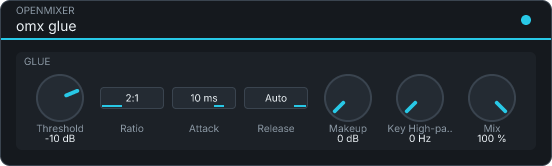
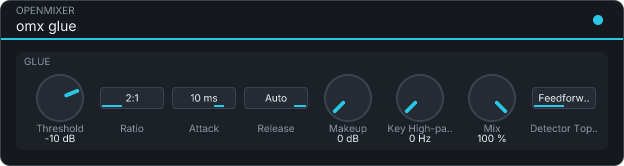
omx-glue: Detector Topology, appended at id 7, default Feedforward
The glue kernel's eighth control (omx-dsp data/kernels/glue.json
GLUE_DETECTOR_TOPOLOGIES) reaches both faces: CLAP id 7, LV2 port index 11,
symbol detectorTopology, Feedforward (0) / Feedback (1). Ids 0..6 and their
symbols do not move; the host's bypass follows at id 8 and the LV2 enabled and
latency ports at 12 and 13, as the append-only rule places them. Default
Feedforward: a state saved before (read by symbol) and every earlier preset come
up as the glue they were.

Needs omx-dsp feat/ssl-feedback-mode (the face's appended resolve argument).
make -C plugins/omx-glue test against it (Fedora 44, the channel): clap-params
9/9 as declared, Detector Topology live (moves the output), state round trip
with 9 values, the kernel-identity oracle green on CLAP and LV2 at every rate,
presets listed and loaded through CLAP and lilv. The one red,
modgui-gen --check on build/omx-glue.lv2/modgui.ttl, is the channel's
omx-panel 0.9.1 and reads the same on the untouched omx-comp.

diff --git a/plugins/omx-glue/test/glue-oracle.c b/plugins/omx-glue/test/glue-oracle.c
@@ -55,67 +55,73 @@ typedef struct {
 } Block;
 
 static const Block PLAN[] = {
-    { 64, 0.0f, 0, {-10.0f, 2.0f, 4.0f, 2.0f, 2.4f, 175.0f, 100.0f}, 0 },
-    { 1, 0.0f, 0, {-30.0f, 0.0f, 4.0f, 4.0f, 14.4f, 0.0f, 25.0f}, 0 },
-    { 333, 0.0f, 0, {0.0f, 2.0f, 3.0f, 0.0f, 8.4f, 0.0f, 100.0f}, 0 },
-    { 512, 0.0f, 0, {-40.0f, 0.0f, 5.0f, 2.0f, 0.0f, 125.0f, 0.0f}, 0 },
-    { 17, 0.0f, 0, {-10.0f, 1.0f, 1.0f, 1.0f, 0.0f, 500.0f, 75.0f}, 1 },
-    { 480, 0.0f, 0, {-10.0f, 2.0f, 3.0f, 4.0f, 6.0f, 0.0f, 100.0f}, 1 },
-    { 129, 0.0f, 0, {-20.0f, 0.0f, 2.0f, 4.0f, 24.0f, 375.0f, 50.0f}, 0 },
-    { 1024, 0.0f, 0, {-4.0f, 1.0f, 4.0f, 1.0f, 0.0f, 0.0f, 90.0f}, 0 },
-    { 7, 0.0f, 0, {-36.0f, 1.0f, 4.0f, 4.0f, 18.0f, 250.0f, 10.0f}, 0 },
-    { 2500, 0.0f, 0, {-16.0f, 0.0f, 1.0f, 0.0f, 0.0f, 450.0f, 60.0f}, 0 },
-    { 600, 0.0f, 0, {-26.0f, 0.0f, 5.0f, 3.0f, 12.0f, 50.0f, 35.0f}, 0 },
-    { 3000, 0.0f, 0, {-10.0f, 1.0f, 0.0f, 4.0f, 21.6f, 300.0f, 100.0f}, 0 },
-    { 0, 10.0f, 1, {-10.0f, 0.0f, 4.0f, 4.0f, 0.0f, 0.0f, 100.0f}, 0 },
-    { 0, 100.0f, 2, {-10.0f, 0.0f, 4.0f, 4.0f, 0.0f, 0.0f, 100.0f}, 0 },
-    { 0, 10.0f, 1, {-10.0f, 0.0f, 4.0f, 4.0f, 0.0f, 0.0f, 100.0f}, 0 },
-    { 0, 100.0f, 2, {-10.0f, 0.0f, 4.0f, 4.0f, 0.0f, 0.0f, 100.0f}, 0 },
-    { 0, 100.0f, 2, {-30.0f, 0.0f, 5.0f, 0.0f, 18.0f, 375.0f, 75.0f}, 0 },
-    { 0, 10.0f, 1, {-10.0f, 1.0f, 4.0f, 4.0f, 0.0f, 0.0f, 100.0f}, 0 },
-    { 0, 100.0f, 2, {-10.0f, 1.0f, 4.0f, 4.0f, 0.0f, 0.0f, 100.0f}, 0 },
-    { 0, 100.0f, 2, {-30.0f, 1.0f, 5.0f, 0.0f, 18.0f, 375.0f, 75.0f}, 0 },
-    { 0, 10.0f, 1, {-10.0f, 2.0f, 4.0f, 4.0f, 0.0f, 0.0f, 100.0f}, 0 },
-    { 0, 100.0f, 2, {-10.0f, 2.0f, 4.0f, 4.0f, 0.0f, 0.0f, 100.0f}, 0 },
-    { 0, 100.0f, 2, {-30.0f, 2.0f, 5.0f, 0.0f, 18.0f, 375.0f, 75.0f}, 0 },
-    { 0, 10.0f, 1, {-10.0f, 0.0f, 0.0f, 4.0f, 0.0f, 0.0f, 100.0f}, 0 },
-    { 0, 100.0f, 2, {-10.0f, 0.0f, 0.0f, 4.0f, 0.0f, 0.0f, 100.0f}, 0 },
-    { 0, 100.0f, 2, {-30.0f, 1.0f, 0.0f, 0.0f, 18.0f, 375.0f, 75.0f}, 0 },
-    { 0, 10.0f, 1, {-10.0f, 0.0f, 1.0f, 4.0f, 0.0f, 0.0f, 100.0f}, 0 },
-    { 0, 100.0f, 2, {-10.0f, 0.0f, 1.0f, 4.0f, 0.0f, 0.0f, 100.0f}, 0 },
-    { 0, 100.0f, 2, {-30.0f, 1.0f, 1.0f, 0.0f, 18.0f, 375.0f, 75.0f}, 0 },
-    { 0, 10.0f, 1, {-10.0f, 0.0f, 2.0f, 4.0f, 0.0f, 0.0f, 100.0f}, 0 },
-    { 0, 100.0f, 2, {-10.0f, 0.0f, 2.0f, 4.0f, 0.0f, 0.0f, 100.0f}, 0 },
-    { 0, 100.0f, 2, {-30.0f, 1.0f, 2.0f, 0.0f, 18.0f, 375.0f, 75.0f}, 0 },
-    { 0, 10.0f, 1, {-10.0f, 0.0f, 3.0f, 4.0f, 0.0f, 0.0f, 100.0f}, 0 },
-    { 0, 100.0f, 2, {-10.0f, 0.0f, 3.0f, 4.0f, 0.0f, 0.0f, 100.0f}, 0 },
-    { 0, 100.0f, 2, {-30.0f, 1.0f, 3.0f, 0.0f, 18.0f, 375.0f, 75.0f}, 0 },
-    { 0, 10.0f, 1, {-10.0f, 0.0f, 4.0f, 4.0f, 0.0f, 0.0f, 100.0f}, 0 },
-    { 0, 100.0f, 2, {-10.0f, 0.0f, 4.0f, 4.0f, 0.0f, 0.0f, 100.0f}, 0 },
-    { 0, 100.0f, 2, {-30.0f, 1.0f, 4.0f, 0.0f, 18.0f, 375.0f, 75.0f}, 0 },
-    { 0, 10.0f, 1, {-10.0f, 0.0f, 5.0f, 4.0f, 0.0f, 0.0f, 100.0f}, 0 },
-    { 0, 100.0f, 2, {-10.0f, 0.0f, 5.0f, 4.0f, 0.0f, 0.0f, 100.0f}, 0 },
-    { 0, 100.0f, 2, {-30.0f, 1.0f, 5.0f, 0.0f, 18.0f, 375.0f, 75.0f}, 0 },
-    { 0, 10.0f, 1, {-10.0f, 0.0f, 4.0f, 0.0f, 0.0f, 0.0f, 100.0f}, 0 },
-    { 0, 100.0f, 2, {-10.0f, 0.0f, 4.0f, 0.0f, 0.0f, 0.0f, 100.0f}, 0 },
-    { 0, 100.0f, 2, {-30.0f, 1.0f, 5.0f, 0.0f, 18.0f, 375.0f, 75.0f}, 0 },
-    { 0, 10.0f, 1, {-10.0f, 0.0f, 4.0f, 1.0f, 0.0f, 0.0f, 100.0f}, 0 },
-    { 0, 100.0f, 2, {-10.0f, 0.0f, 4.0f, 1.0f, 0.0f, 0.0f, 100.0f}, 0 },
-    { 0, 100.0f, 2, {-30.0f, 1.0f, 5.0f, 1.0f, 18.0f, 375.0f, 75.0f}, 0 },
-    { 0, 10.0f, 1, {-10.0f, 0.0f, 4.0f, 2.0f, 0.0f, 0.0f, 100.0f}, 0 },
-    { 0, 100.0f, 2, {-10.0f, 0.0f, 4.0f, 2.0f, 0.0f, 0.0f, 100.0f}, 0 },
-    { 0, 100.0f, 2, {-30.0f, 1.0f, 5.0f, 2.0f, 18.0f, 375.0f, 75.0f}, 0 },
-    { 0, 10.0f, 1, {-10.0f, 0.0f, 4.0f, 3.0f, 0.0f, 0.0f, 100.0f}, 0 },
-    { 0, 100.0f, 2, {-10.0f, 0.0f, 4.0f, 3.0f, 0.0f, 0.0f, 100.0f}, 0 },
-    { 0, 100.0f, 2, {-30.0f, 1.0f, 5.0f, 3.0f, 18.0f, 375.0f, 75.0f}, 0 },
-    { 0, 10.0f, 1, {-10.0f, 0.0f, 4.0f, 4.0f, 0.0f, 0.0f, 100.0f}, 0 },
-    { 0, 100.0f, 2, {-10.0f, 0.0f, 4.0f, 4.0f, 0.0f, 0.0f, 100.0f}, 0 },
-    { 0, 100.0f, 2, {-30.0f, 1.0f, 5.0f, 4.0f, 18.0f, 375.0f, 75.0f}, 0 },
+    { 64, 0.0f, 0, {-10.0f, 2.0f, 4.0f, 2.0f, 2.4f, 175.0f, 100.0f, 1.0f}, 0 },
+    { 1, 0.0f, 0, {-30.0f, 0.0f, 4.0f, 4.0f, 14.4f, 0.0f, 25.0f, 0.0f}, 0 },
+    { 333, 0.0f, 0, {0.0f, 2.0f, 3.0f, 0.0f, 8.4f, 0.0f, 100.0f, 1.0f}, 0 },
+    { 512, 0.0f, 0, {-40.0f, 0.0f, 5.0f, 2.0f, 0.0f, 125.0f, 0.0f, 0.0f}, 0 },
+    { 17, 0.0f, 0, {-10.0f, 1.0f, 1.0f, 1.0f, 0.0f, 500.0f, 75.0f, 1.0f}, 1 },
+    { 480, 0.0f, 0, {-10.0f, 2.0f, 3.0f, 4.0f, 6.0f, 0.0f, 100.0f, 1.0f}, 1 },
+    { 129, 0.0f, 0, {-20.0f, 0.0f, 2.0f, 4.0f, 24.0f, 375.0f, 50.0f, 0.0f}, 0 },
+    { 1024, 0.0f, 0, {-4.0f, 1.0f, 4.0f, 1.0f, 0.0f, 0.0f, 90.0f, 1.0f}, 0 },
+    { 7, 0.0f, 0, {-36.0f, 1.0f, 4.0f, 4.0f, 18.0f, 250.0f, 10.0f, 0.0f}, 0 },
+    { 2500, 0.0f, 0, {-16.0f, 0.0f, 1.0f, 0.0f, 0.0f, 450.0f, 60.0f, 0.0f}, 0 },
+    { 600, 0.0f, 0, {-26.0f, 0.0f, 5.0f, 3.0f, 12.0f, 50.0f, 35.0f, 0.0f}, 0 },
+    { 3000, 0.0f, 0, {-10.0f, 1.0f, 0.0f, 4.0f, 21.6f, 300.0f, 100.0f, 0.0f}, 0 },
+    { 0, 10.0f, 1, {-10.0f, 0.0f, 4.0f, 4.0f, 0.0f, 0.0f, 100.0f, 0.0f}, 0 },
+    { 0, 100.0f, 2, {-10.0f, 0.0f, 4.0f, 4.0f, 0.0f, 0.0f, 100.0f, 0.0f}, 0 },
+    { 0, 10.0f, 1, {-10.0f, 0.0f, 4.0f, 4.0f, 0.0f, 0.0f, 100.0f, 0.0f}, 0 },
+    { 0, 100.0f, 2, {-10.0f, 0.0f, 4.0f, 4.0f, 0.0f, 0.0f, 100.0f, 0.0f}, 0 },
+    { 0, 100.0f, 2, {-30.0f, 0.0f, 5.0f, 0.0f, 18.0f, 375.0f, 75.0f, 1.0f}, 0 },
+    { 0, 10.0f, 1, {-10.0f, 1.0f, 4.0f, 4.0f, 0.0f, 0.0f, 100.0f, 0.0f}, 0 },
+    { 0, 100.0f, 2, {-10.0f, 1.0f, 4.0f, 4.0f, 0.0f, 0.0f, 100.0f, 0.0f}, 0 },
+    { 0, 100.0f, 2, {-30.0f, 1.0f, 5.0f, 0.0f, 18.0f, 375.0f, 75.0f, 1.0f}, 0 },
+    { 0, 10.0f, 1, {-10.0f, 2.0f, 4.0f, 4.0f, 0.0f, 0.0f, 100.0f, 0.0f}, 0 },
+    { 0, 100.0f, 2, {-10.0f, 2.0f, 4.0f, 4.0f, 0.0f, 0.0f, 100.0f, 0.0f}, 0 },
+    { 0, 100.0f, 2, {-30.0f, 2.0f, 5.0f, 0.0f, 18.0f, 375.0f, 75.0f, 1.0f}, 0 },
+    { 0, 10.0f, 1, {-10.0f, 0.0f, 0.0f, 4.0f, 0.0f, 0.0f, 100.0f, 0.0f}, 0 },
+    { 0, 100.0f, 2, {-10.0f, 0.0f, 0.0f, 4.0f, 0.0f, 0.0f, 100.0f, 0.0f}, 0 },
+    { 0, 100.0f, 2, {-30.0f, 1.0f, 0.0f, 0.0f, 18.0f, 375.0f, 75.0f, 1.0f}, 0 },
+    { 0, 10.0f, 1, {-10.0f, 0.0f, 1.0f, 4.0f, 0.0f, 0.0f, 100.0f, 0.0f}, 0 },
+    { 0, 100.0f, 2, {-10.0f, 0.0f, 1.0f, 4.0f, 0.0f, 0.0f, 100.0f, 0.0f}, 0 },
+    { 0, 100.0f, 2, {-30.0f, 1.0f, 1.0f, 0.0f, 18.0f, 375.0f, 75.0f, 1.0f}, 0 },
+    { 0, 10.0f, 1, {-10.0f, 0.0f, 2.0f, 4.0f, 0.0f, 0.0f, 100.0f, 0.0f}, 0 },
+    { 0, 100.0f, 2, {-10.0f, 0.0f, 2.0f, 4.0f, 0.0f, 0.0f, 100.0f, 0.0f}, 0 },
+    { 0, 100.0f, 2, {-30.0f, 1.0f, 2.0f, 0.0f, 18.0f, 375.0f, 75.0f, 1.0f}, 0 },
+    { 0, 10.0f, 1, {-10.0f, 0.0f, 3.0f, 4.0f, 0.0f, 0.0f, 100.0f, 0.0f}, 0 },
+    { 0, 100.0f, 2, {-10.0f, 0.0f, 3.0f, 4.0f, 0.0f, 0.0f, 100.0f, 0.0f}, 0 },
+    { 0, 100.0f, 2, {-30.0f, 1.0f, 3.0f, 0.0f, 18.0f, 375.0f, 75.0f, 1.0f}, 0 },
+    { 0, 10.0f, 1, {-10.0f, 0.0f, 4.0f, 4.0f, 0.0f, 0.0f, 100.0f, 0.0f}, 0 },
+    { 0, 100.0f, 2, {-10.0f, 0.0f, 4.0f, 4.0f, 0.0f, 0.0f, 100.0f, 0.0f}, 0 },
+    { 0, 100.0f, 2, {-30.0f, 1.0f, 4.0f, 0.0f, 18.0f, 375.0f, 75.0f, 1.0f}, 0 },
+    { 0, 10.0f, 1, {-10.0f, 0.0f, 5.0f, 4.0f, 0.0f, 0.0f, 100.0f, 0.0f}, 0 },
+    { 0, 100.0f, 2, {-10.0f, 0.0f, 5.0f, 4.0f, 0.0f, 0.0f, 100.0f, 0.0f}, 0 },
+    { 0, 100.0f, 2, {-30.0f, 1.0f, 5.0f, 0.0f, 18.0f, 375.0f, 75.0f, 1.0f}, 0 },
+    { 0, 10.0f, 1, {-10.0f, 0.0f, 4.0f, 0.0f, 0.0f, 0.0f, 100.0f, 0.0f}, 0 },
+    { 0, 100.0f, 2, {-10.0f, 0.0f, 4.0f, 0.0f, 0.0f, 0.0f, 100.0f, 0.0f}, 0 },
+    { 0, 100.0f, 2, {-30.0f, 1.0f, 5.0f, 0.0f, 18.0f, 375.0f, 75.0f, 1.0f}, 0 },
+    { 0, 10.0f, 1, {-10.0f, 0.0f, 4.0f, 1.0f, 0.0f, 0.0f, 100.0f, 0.0f}, 0 },
+    { 0, 100.0f, 2, {-10.0f, 0.0f, 4.0f, 1.0f, 0.0f, 0.0f, 100.0f, 0.0f}, 0 },
+    { 0, 100.0f, 2, {-30.0f, 1.0f, 5.0f, 1.0f, 18.0f, 375.0f, 75.0f, 1.0f}, 0 },
+    { 0, 10.0f, 1, {-10.0f, 0.0f, 4.0f, 2.0f, 0.0f, 0.0f, 100.0f, 0.0f}, 0 },
+    { 0, 100.0f, 2, {-10.0f, 0.0f, 4.0f, 2.0f, 0.0f, 0.0f, 100.0f, 0.0f}, 0 },
+    { 0, 100.0f, 2, {-30.0f, 1.0f, 5.0f, 2.0f, 18.0f, 375.0f, 75.0f, 1.0f}, 0 },
+    { 0, 10.0f, 1, {-10.0f, 0.0f, 4.0f, 3.0f, 0.0f, 0.0f, 100.0f, 0.0f}, 0 },
+    { 0, 100.0f, 2, {-10.0f, 0.0f, 4.0f, 3.0f, 0.0f, 0.0f, 100.0f, 0.0f}, 0 },
+    { 0, 100.0f, 2, {-30.0f, 1.0f, 5.0f, 3.0f, 18.0f, 375.0f, 75.0f, 1.0f}, 0 },
+    { 0, 10.0f, 1, {-10.0f, 0.0f, 4.0f, 4.0f, 0.0f, 0.0f, 100.0f, 0.0f}, 0 },
+    { 0, 100.0f, 2, {-10.0f, 0.0f, 4.0f, 4.0f, 0.0f, 0.0f, 100.0f, 0.0f}, 0 },
+    { 0, 100.0f, 2, {-30.0f, 1.0f, 5.0f, 4.0f, 18.0f, 375.0f, 75.0f, 1.0f}, 0 },
+    { 0, 10.0f, 1, {-10.0f, 0.0f, 4.0f, 4.0f, 0.0f, 0.0f, 100.0f, 0.0f}, 0 },
+    { 0, 100.0f, 2, {-10.0f, 0.0f, 4.0f, 4.0f, 0.0f, 0.0f, 100.0f, 0.0f}, 0 },
+    { 0, 100.0f, 2, {-30.0f, 1.0f, 5.0f, 0.0f, 18.0f, 375.0f, 75.0f, 0.0f}, 0 },
+    { 0, 10.0f, 1, {-10.0f, 0.0f, 4.0f, 4.0f, 0.0f, 0.0f, 100.0f, 1.0f}, 0 },
+    { 0, 100.0f, 2, {-10.0f, 0.0f, 4.0f, 4.0f, 0.0f, 0.0f, 100.0f, 1.0f}, 0 },
+    { 0, 100.0f, 2, {-30.0f, 1.0f, 5.0f, 0.0f, 18.0f, 375.0f, 75.0f, 1.0f}, 0 },
 };
 #define NBLOCKS (sizeof PLAN / sizeof PLAN[0])
 
 /* One step of each parameter: what the sabotage arm moves it by. */
-static const float STEP[NP] = { 0.4f, 1.0f, 1.0f, 1.0f, 0.24f, 5.0f, 1.0f };
+static const float STEP[NP] = { 0.4f, 1.0f, 1.0f, 1.0f, 0.24f, 5.0f, 1.0f, 1.0f };
 
 static int failures;
 
@@ -204,7 +210,7 @@ static void reference(double sr, int off, const float *key, const float *il, con
     values_of(k, off, values);
     const uint32_t frames = frames_of(k, sr);
     for (uint32_t r = 0; r < STRETCH; r++) {
-      omx_glue_instance_resolve(&inst, k->bypass, values[OMX_GLUE_PARAM_THRESHOLD_DB], (int)lrintf(values[OMX_GLUE_PARAM_RATIO]), (int)lrintf(values[OMX_GLUE_PARAM_ATTACK]), (int)lrintf(values[OMX_GLUE_PARAM_RELEASE]), values[OMX_GLUE_PARAM_MAKEUP_DB], values[OMX_GLUE_PARAM_KEY_HP_HZ], values[OMX_GLUE_PARAM_MIX_PCT]);
+      omx_glue_instance_resolve(&inst, k->bypass, values[OMX_GLUE_PARAM_THRESHOLD_DB], (int)lrintf(values[OMX_GLUE_PARAM_RATIO]), (int)lrintf(values[OMX_GLUE_PARAM_ATTACK]), (int)lrintf(values[OMX_GLUE_PARAM_RELEASE]), values[OMX_GLUE_PARAM_MAKEUP_DB], values[OMX_GLUE_PARAM_KEY_HP_HZ], values[OMX_GLUE_PARAM_MIX_PCT], (int)lrintf(values[OMX_GLUE_PARAM_DETECTOR_TOPOLOGY]));
 #if KEYED
       omx_glue_instance_run(&inst, key ? key + at : NULL, il + at, ir + at, ol + at, orr + at, frames);
 #else

diff --git a/plugins/omx-glue/omx_glue_core.h b/plugins/omx-glue/omx_glue_core.h
@@ -45,7 +45,8 @@ static inline void omx_glue_core_resolve(OmxGlueCore *c, const float *values, in
                                   /* release */ (int)lrintf(values[OMX_GLUE_PARAM_RELEASE]),
                                   /* makeup_db */ values[OMX_GLUE_PARAM_MAKEUP_DB],
                                   /* key_hp_hz */ values[OMX_GLUE_PARAM_KEY_HP_HZ],
-                                  /* mix_pct */ values[OMX_GLUE_PARAM_MIX_PCT]);
+                                  /* mix_pct */ values[OMX_GLUE_PARAM_MIX_PCT],
+                                  /* detector_topology */ (int)lrintf(values[OMX_GLUE_PARAM_DETECTOR_TOPOLOGY]));
 }
 
 /** The latency the kernel adds, in samples. */
